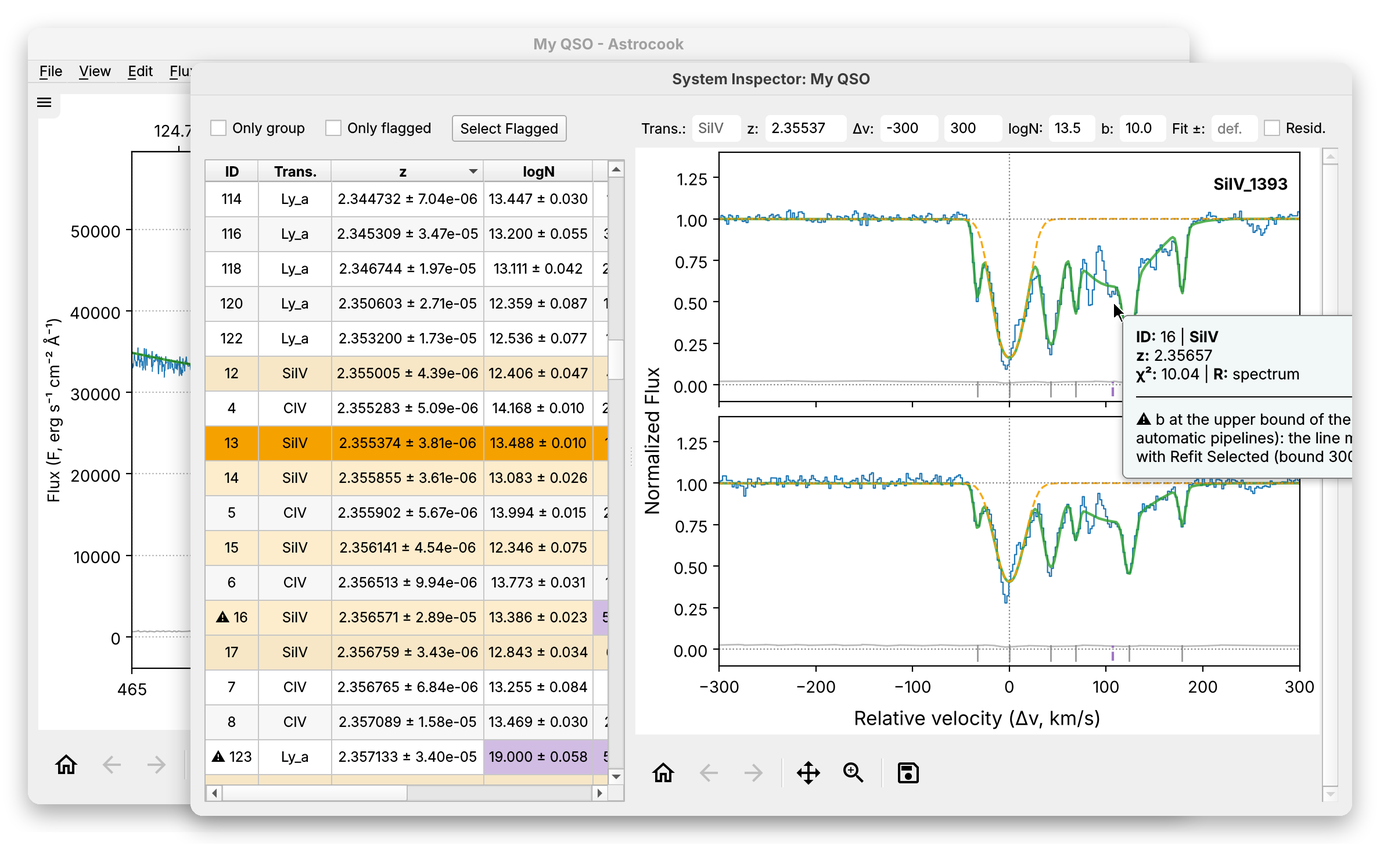
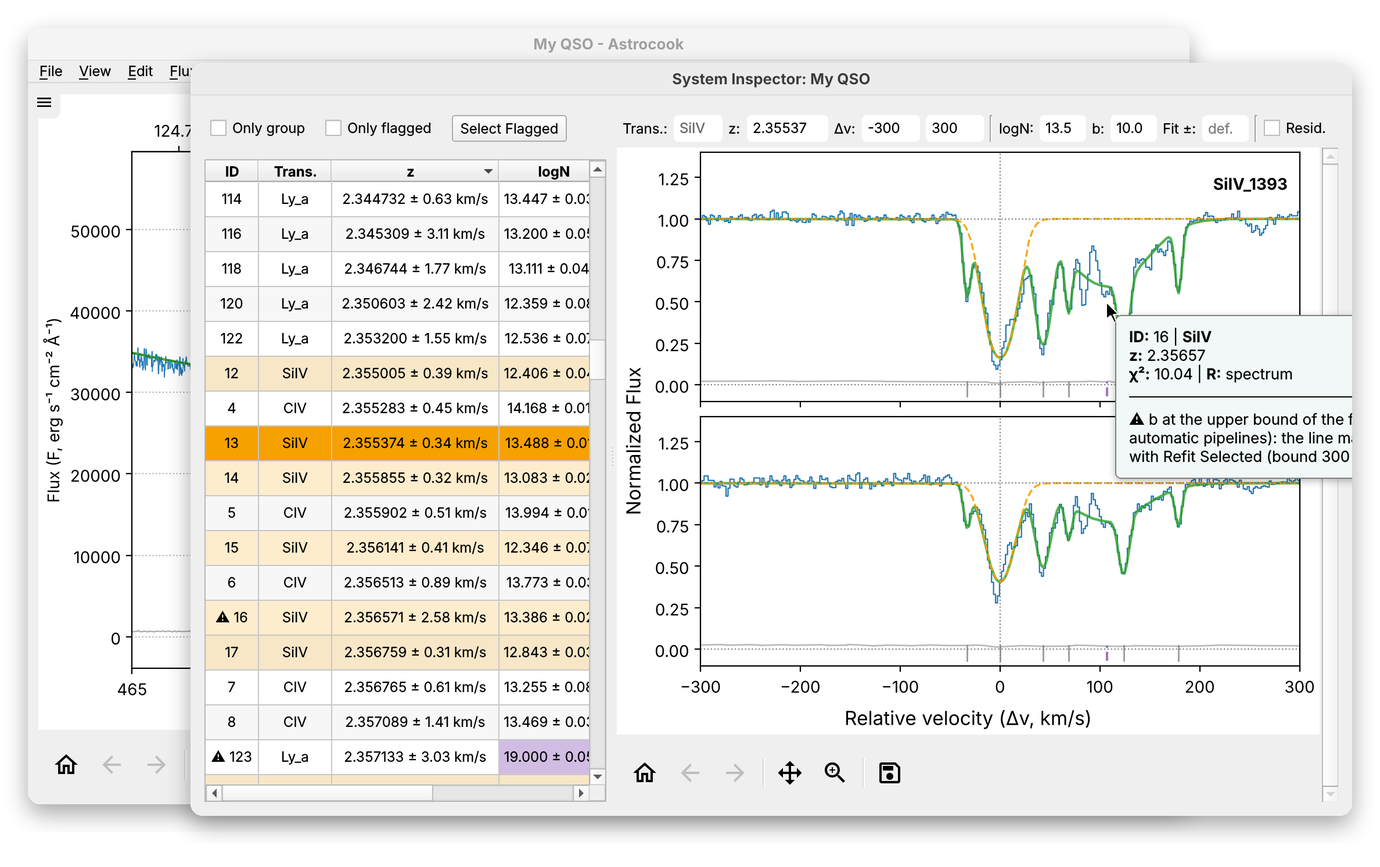
System Inspector: error of z in km/s, btur column, fields in groups
- The uncertainty of z shown as a velocity, c dz / (1 + z), instead of dz
  in scientific notation; dz and km/s in the tooltip of the row. The
  exported tables keep dz.
- btur hidden while no component uses it (all 0, none linked), shown when
  one does; a menu on the header shows or hides any column, saved in the
  settings, with Default Columns.
- The boxes above the velocity plot in three groups, separated by thin
  vertical lines, still on one row so that the plot starts where the
  table does (Guido); a tooltip on each box.
Tutorial, CHANGELOG, ROADMAP; screenshots rebuilt.

Claude-Session: https://claude.ai/code/session_01N95cbM7xvLMDyKr9XgXJpi

diff --git a/astrocook/gui/system_inspector.py b/astrocook/gui/system_inspector.py
@@ -1,13 +1,15 @@
 import importlib.util
+import json
 import logging
 import numpy as np
 import astropy.units as au
-from PySide6.QtCore import QEvent, Qt, QLocale, QItemSelection, QItemSelectionModel, QTimer
+from PySide6.QtCore import (QEvent, Qt, QLocale, QItemSelection, QItemSelectionModel, QSettings,
+                            QTimer)
 from PySide6.QtGui import QAction, QDoubleValidator
 from PySide6.QtWidgets import (
     QApplication, QWidget, QVBoxLayout, QHBoxLayout, QSplitter, QTableView, 
     QHeaderView, QAbstractItemView, QMenu, QInputDialog, QDialog, QDialogButtonBox,
-    QMessageBox, QLabel, QLineEdit, QCheckBox, QPushButton
+    QMessageBox, QLabel, QLineEdit, QCheckBox, QPushButton, QFrame
 )
 from typing import List
 
@@ -21,6 +23,10 @@ from .inspector_table import (COL_MAP, COLUMNS, LinkColorDelegate, SystemSortFil
 from .velocity_plot import VelocityPlotWidget
 from .theme import (FOCUS_BORDER, SELECTION, SELECTION_TEXT, TOOLTIP_BACKGROUND, TOOLTIP_BORDER,
                     TOOLTIP_TEXT)
+
+
+#: The columns of the table shown or hidden by the user, in the settings
+HIDDEN_COLUMNS_KEY = "inspector_hidden_columns"
 
 
 def _corner_installed() -> bool:
@@ -103,6 +109,12 @@ class SystemInspector(QWidget):
             signal.connect(self._schedule_column_fit)
         self.table_view.selectionModel().selectionChanged.connect(self._on_selection_changed)
         self.table_view.customContextMenuRequested.connect(self._on_context_menu)
+        # The columns shown: a menu on the header; btur, almost always a
+        # frozen 0, is hidden unless a component uses it (visual review of
+        # phase 5-bis), or as the user chose (saved in the settings)
+        header = self.table_view.horizontalHeader()
+        header.setContextMenuPolicy(Qt.CustomContextMenu)
+        header.customContextMenuRequested.connect(self._on_header_menu)
         self.table_model.data_changed_request.connect(self._forward)
         
         left_widget = QWidget()
@@ -156,15 +168,23 @@ class SystemInspector(QWidget):
         c_layout.setContentsMargins(5, 5, 5, 5) # Exact match to Left Toolbar
         c_layout.setSpacing(5)
 
-        c_layout.addWidget(QLabel("Trans.:"))
+        # Three groups (visual review of phase 5-bis): what the plot shows,
+        # the starting values and fit window of a new component, the
+        # residuals; on one row, so that the plot starts where the table
+        # does: short labels, explained by the tooltips
+        trans_tip = "The transitions shown in the velocity plot (e.g. CIV, SiIV)"
+        c_layout.addWidget(self._field_label("Trans.:", trans_tip))
         self.trans_in = QLineEdit()
         self.trans_in.setPlaceholderText("CIV, SiIV")
+        self.trans_in.setToolTip(trans_tip)
         self.trans_in.returnPressed.connect(self._apply)
         self.trans_in.textEdited.connect(self._on_manual_edit)
         c_layout.addWidget(self.trans_in, 1) 
         
-        c_layout.addWidget(QLabel("z:"))
+        z_tip = "The redshift at the centre of the velocity plot (Δv = 0)"
+        c_layout.addWidget(self._field_label("z:", z_tip))
         self.z_in = QLineEdit()
+        self.z_in.setToolTip(z_tip)
         self.z_in.setFixedWidth(70)
         validator = QDoubleValidator()
         validator.setLocale(QLocale.C) 
@@ -172,27 +192,37 @@ class SystemInspector(QWidget):
         self.z_in.returnPressed.connect(self._apply_z)
         c_layout.addWidget(self.z_in)
 
-        c_layout.addWidget(QLabel("Δv:"))
+        dv_tip = "The velocity range of the plot (km/s), from and to"
+        c_layout.addWidget(self._field_label("Δv:", dv_tip))
         self.vmin_in = QLineEdit("-300")
+        self.vmin_in.setToolTip(dv_tip)
         self.vmin_in.setFixedWidth(50)
         self.vmin_in.setValidator(validator)
         self.vmin_in.returnPressed.connect(self._apply_limits)
         c_layout.addWidget(self.vmin_in)
         self.vmax_in = QLineEdit("300")
+        self.vmax_in.setToolTip(dv_tip)
         self.vmax_in.setFixedWidth(50)
         self.vmax_in.setValidator(validator)
         self.vmax_in.returnPressed.connect(self._apply_limits)
         c_layout.addWidget(self.vmax_in)
         
-        c_layout.addWidget(QLabel("logN:"))
+        c_layout.addWidget(self._separator())
+        logn_tip = ("The starting logN of a component added from the menu of the\n"
+                    "velocity plot (right click); its profile follows the cursor")
+        c_layout.addWidget(self._field_label("logN:", logn_tip))
         self.logn_in = QLineEdit("13.5")
+        self.logn_in.setToolTip(logn_tip)
         self.logn_in.setFixedWidth(40)
         self.logn_in.setValidator(validator)
         self.logn_in.textChanged.connect(self._update_cursor)
         c_layout.addWidget(self.logn_in)
         
-        c_layout.addWidget(QLabel("b:"))
+        b_tip = ("The starting b (km/s) of a component added from the menu of\n"
+                 "the velocity plot (right click); its profile follows the cursor")
+        c_layout.addWidget(self._field_label("b:", b_tip))
         self.b_in = QLineEdit("10.0")
+        self.b_in.setToolTip(b_tip)
         self.b_in.setFixedWidth(40)
         self.b_in.setValidator(validator)
         self.b_in.textChanged.connect(self._update_cursor)
@@ -220,7 +250,9 @@ class SystemInspector(QWidget):
         self.fit_window_in.setToolTip(fit_window_tip)
         c_layout.addWidget(self.fit_window_in)
         
+        c_layout.addWidget(self._separator())
         self.resid_cb = QCheckBox("Resid.")
+        self.resid_cb.setToolTip("Show the residuals of the model below each panel")
         self.resid_cb.toggled.connect(self._apply) 
         c_layout.addWidget(self.resid_cb)
         
@@ -296,6 +328,7 @@ class SystemInspector(QWidget):
             constraints = session.systs.constraint_model.v2_constraints_by_uuid
             
         self.table_model.update_data(new_comps, constraints)
+        self._update_column_visibility()
         
         # 3. Determine Selection Target
         max_id_new = max([c.id for c in new_comps], default=0) if new_comps else 0
@@ -1013,6 +1046,77 @@ class SystemInspector(QWidget):
         
         # 5. Update Proxy Filter (Show entire group)
         self.proxy_model.set_allowed_uuids(all_group_uuids)
+
+    @staticmethod
+    def _field_label(text: str, tip: str) -> QLabel:
+        label = QLabel(text)
+        label.setToolTip(tip)
+        return label
+
+    @staticmethod
+    def _separator() -> QFrame:
+        """A thin vertical line between the groups of fields."""
+        line = QFrame()
+        line.setFrameShape(QFrame.Shape.VLine)
+        line.setFrameShadow(QFrame.Shadow.Sunken)
+        return line
+
+    # --- The columns shown ---
+
+    def _hidden_columns(self) -> dict:
+        """The columns shown or hidden by the user ({name: hidden}), from
+        the settings; a column not in it follows its default."""
+        raw = QSettings("Astrocook", "AstrocookV2").value(HIDDEN_COLUMNS_KEY, "")
+        try:
+            return {k: bool(v) for k, v in json.loads(raw).items()} if raw else {}
+        except (TypeError, ValueError):
+            return {}
+
+    def _btur_in_use(self) -> bool:
+        """Whether a component has btur other than 0, or linked. Not "free":
+        the constraints of some sessions mark btur free at 0 everywhere,
+        where it does nothing; a fit that moves it makes it non-zero."""
+        model = self.table_model
+        for comp in model._components:
+            if comp.btur:
+                return True
+            constraint = model._constraints_map.get(comp.uuid, {}).get('btur')
+            if constraint is not None and (constraint.target_uuid or constraint.expression):
+                return True
+        return False
+
+    def _update_column_visibility(self):
+        hidden = self._hidden_columns()
+        for i, name in enumerate(COLUMNS):
+            if name in hidden:
+                hide = hidden[name]
+            else:
+                hide = name == 'btur' and not self._btur_in_use()
+            self.table_view.setColumnHidden(i, hide)
+
+    def _on_header_menu(self, pos):
+        """Show or hide a column; the choice is saved in the settings."""
+        menu = QMenu(self)
+        for i, name in enumerate(COLUMNS):
+            if name == 'ID':
+                continue
+            action = menu.addAction(name)
+            action.setCheckable(True)
+            action.setChecked(not self.table_view.isColumnHidden(i))
+            action.toggled.connect(lambda shown, n=name: self._set_column_shown(n, shown))
+        menu.addSeparator()
+        menu.addAction("Default Columns", self._reset_columns)
+        menu.exec(self.table_view.horizontalHeader().mapToGlobal(pos))
+
+    def _set_column_shown(self, name: str, shown: bool):
+        hidden = self._hidden_columns()
+        hidden[name] = not shown
+        QSettings("Astrocook", "AstrocookV2").setValue(HIDDEN_COLUMNS_KEY, json.dumps(hidden))
+        self._update_column_visibility()
+
+    def _reset_columns(self):
+        QSettings("Astrocook", "AstrocookV2").remove(HIDDEN_COLUMNS_KEY)
+        self._update_column_visibility()
 
     def _apply_field_styles(self):
         """The fields above the velocity plot, with the colours of the

diff --git a/tests/test_gui_smoke.py b/tests/test_gui_smoke.py
@@ -288,7 +288,8 @@ def _columns_fit_their_contents(inspector):
     return all(
         header.sectionSize(col) == max(view.sizeHintForColumn(col),
                                        header.sectionSizeHint(col))
-        for col in range(inspector.proxy_model.columnCount()))
+        for col in range(inspector.proxy_model.columnCount())
+        if not view.isColumnHidden(col))  # btur, hidden when not in use
 
 
 def test_inspector_columns_fit_their_contents(qtbot, loaded):
@@ -322,6 +323,72 @@ def test_inspector_boxes_above_the_table(loaded):
     assert group.text() == "Only group" and "fitted together" in group.toolTip()
     assert group.geometry().right() + 10 < flagged.geometry().left()
     assert flagged.geometry().right() + 10 < button.geometry().left()
+
+
+def test_inspector_fields_in_groups(loaded):
+    # One row above the plot, as the boxes above the table, in three groups
+    # (the view, a new component, the residuals) with tooltips (visual
+    # review of phase 5-bis)
+    from PySide6.QtWidgets import QFrame
+    loaded._on_view_system_inspector()
+    inspector = loaded.system_inspector
+    inspector.resize(1200, 700)
+    QApplication.processEvents()
+    fields = (inspector.trans_in, inspector.z_in, inspector.vmin_in, inspector.vmax_in,
+              inspector.logn_in, inspector.b_in, inspector.fit_window_in, inspector.resid_cb)
+    assert all(f.toolTip() for f in fields)
+    assert "right click" in inspector.logn_in.toolTip()
+    tops = {f.mapTo(inspector, f.rect().topLeft()).y() // 10 for f in fields}
+    assert len(tops) == 1  # one row
+    lines = [w for w in inspector.findChildren(QFrame)
+             if w.frameShape() == QFrame.Shape.VLine and w.isVisible()]
+    xs = sorted(w.mapTo(inspector, w.rect().topLeft()).x() for w in lines)
+    x_of = lambda w: w.mapTo(inspector, w.rect().topLeft()).x()  # noqa: E731
+    assert len(xs) == 2
+    assert x_of(inspector.vmax_in) < xs[0] < x_of(inspector.logn_in)
+    assert x_of(inspector.fit_window_in) < xs[1] < x_of(inspector.resid_cb)
+
+
+def test_inspector_btur_column(loaded, monkeypatch):
+    # btur, almost always a frozen 0, hidden unless a component uses it;
+    # the header menu shows or hides a column, remembered (visual review)
+    import dataclasses
+    from PySide6.QtCore import QSettings
+    from astrocook.gui import system_inspector
+    from astrocook.gui.inspector_table import COLUMNS
+    loaded._on_view_system_inspector()
+    inspector = loaded.system_inspector
+    view, col = inspector.table_view, COLUMNS.index("btur")
+    assert view.isColumnHidden(col)
+    # A component with btur: shown
+    model = inspector.table_model
+    comps = list(model._components)
+    comps[0] = dataclasses.replace(comps[0], btur=5.0)
+    model.update_data(comps, model._constraints_map)
+    inspector._update_column_visibility()
+    assert not view.isColumnHidden(col)
+    # The user hides it: hidden, and remembered
+    inspector._set_column_shown("btur", False)
+    assert view.isColumnHidden(col)
+    assert "btur" in QSettings("Astrocook", "AstrocookV2").value(
+        system_inspector.HIDDEN_COLUMNS_KEY)
+    inspector._set_column_shown("logN", False)
+    assert view.isColumnHidden(COLUMNS.index("logN"))
+    # Default Columns: btur shown again (in use), logN back
+    inspector._reset_columns()
+    assert not view.isColumnHidden(col) and not view.isColumnHidden(COLUMNS.index("logN"))
+    # The menu of the header: one entry per column but ID
+    from PySide6.QtWidgets import QMenu
+    shown = []
+
+    class RecordedMenu(QMenu):
+        def exec(self, *args):
+            shown.append([x.text() for x in self.actions() if not x.isSeparator()])
+
+    monkeypatch.setattr(system_inspector, "QMenu", RecordedMenu)
+    inspector._on_header_menu(view.horizontalHeader().rect().center())
+    assert shown[0][:len(COLUMNS) - 1] == COLUMNS[1:]
+    assert shown[0][-1] == "Default Columns"
 
 
 def test_inspector_fit_window(loaded, monkeypatch):

diff --git a/astrocook/gui/inspector_table.py b/astrocook/gui/inspector_table.py
@@ -26,6 +26,23 @@ COL_MAP = {
 COLUMNS = list(COL_MAP.keys())
 EDITABLE_COLS = {"z", "logN", "b", "btur"}
 
+#: The speed of light (km/s), for the error of z in velocity
+C_KMS = 299792.458
+
+
+def dz_kms(z: float, dz: float) -> float:
+    """The error of a redshift as a velocity, c dz / (1 + z)."""
+    return C_KMS * dz / (1.0 + z)
+
+
+def _dz_tip(comp) -> str:
+    """The error of z in the tooltip of a row: as a redshift and in km/s."""
+    dz = getattr(comp, 'dz', None)
+    if dz is None or not np.isfinite(dz) or dz <= 0:
+        return ""
+    return f" \u00b1 {dz:.2e} ({dz_kms(comp.z, dz):.2f} km/s)"
+
+
 # --- Flags of the fit (#517) ---
 #: Parameter of each bound flag, and what it means for the user
 _BOUND_FLAGS = {
@@ -264,7 +281,7 @@ class SystemTableModel(QAbstractTableModel):
              tooltip_html = (
                 f"<div style='font-size: 13px'>"
                 f"<b>ID:</b> {comp.id} | <b>{comp.series}</b><br>"
-                f"<b>z:</b> {comp.z:.6f}<br>"
+                f"<b>z:</b> {comp.z:.6f}{_dz_tip(comp)}<br>"
                 f"<b>\u03c7\u00b2:</b> {c_chi2} | <b>R:</b> {c_resol}"
              )
              if is_constrained_col:
@@ -342,7 +359,13 @@ class SystemTableModel(QAbstractTableModel):
                         err_val = getattr(comp, err_attr, None)
                         
                         if err_val is not None and np.isfinite(err_val) and err_val > 0:
-                            err_str = err_fmt.format(err_val)
+                            if attr == 'z':
+                                # In velocity: dz in scientific notation was
+                                # hard to compare between rows (visual review
+                                # of phase 5-bis); dz is in the tooltip
+                                err_str = f"{dz_kms(comp.z, err_val):.2f} km/s"
+                            else:
+                                err_str = err_fmt.format(err_val)
                             return f"{val_str} ± {err_str}"
                 
                 return val_str

diff --git a/tests/test_inspector_table.py b/tests/test_inspector_table.py
@@ -58,7 +58,9 @@ def test_display_and_edit(filled):
     assert _data(filled, 0, "ID", Qt.DisplayRole) == "⚠ 1"  # flagged
     assert _data(filled, 2, "ID", Qt.DisplayRole) == "3"
     assert _data(filled, 0, "Trans.", Qt.DisplayRole) == "CIV"
-    assert _data(filled, 0, "z", Qt.DisplayRole) == "2.000000 ± 1.50e-05"
+    # The error of z in velocity, c dz / (1 + z) (visual review of phase 5-bis)
+    assert _data(filled, 0, "z", Qt.DisplayRole) == "2.000000 ± 1.50 km/s"
+    assert "± 1.50e-05 (1.50 km/s)" in _data(filled, 0, "z", Qt.ToolTipRole)
     assert _data(filled, 0, "logN", Qt.DisplayRole) == "13.000 ± 0.050"
     assert _data(filled, 0, "b", Qt.DisplayRole) == "10.00 ± 1.25"
     # No error without one, for a linked or a frozen parameter

diff --git a/ROADMAP.md b/ROADMAP.md
@@ -2044,7 +2044,7 @@ review); each of its decisions goes into the log.
 | MCP pilot (sections 4.1, 4.2) | done (October 2026): scope (#595); skeleton with `session_open`, `session_save` (#596); `continuum_estimate_auto`, `absorbers_identify_lines` (#597); `absorbers_doublets_auto` (#598); docs page and stdio test (#599); report (section 4.2, #600): two agent trials and Guido's; found F46-F55 |
 | 4 – Scientific correctness (validation on mocks; #526, #517, #465, #518, #568, #573) | done (October 2026): plan agreed (#601); validation: mocks extended (#602), benchmark (#603), baseline (#604); found F56-F59; #573 done (#605: one default per parameter); #518 done (#606: fit window in the System Inspector); #568: wrong atomic values (#607), AlII, [NeIII], [NeV], TiII (#608), single table with sources and newer values, F39 (#609); F49: one candidate per doublet (#611); F55: candidates within 3000 km/s of z_em (#612); F50: the pipelines keep the mask of the user (#613); #465: robust automatic continuum (spikes, masked running mean, local S/N) (#614); #526 PR 1: resolution as a single column (#615); PR 2: the GUI on the same resolver (#616); PR 3: exact convolution with the LSF of each pixel (#617); F61: damping parameter (1 + z) too large (#619); F62: `max_logN` = 19 in the automatic pipelines (#624); PR 4: legacy sources no longer written, System Inspector profiles as the fitter (#625); #623: refit of sessions with pixel edges without a unit (regression of #617, #626); F14: blend threshold of the grouping from the instrumental FWHM (#618); #517 with F52 partly: flags of the fit (#627), cleanup of the pipelines (#628), GUI cues and F65 (#629); F63 (#631); result against the baseline in "Result of the phase" |
 | 5 – Splitting large files (and GUI performance) | done (October 2026): order of the phase agreed, F12 moved to 6-bis; GUI benchmark (`benchmarks/bench_gui.py`, #634); inspector table (first opening 3.7 → 1.3 s, #635); ticks of the main plot (redraw 0.19 → 0.13 s, #636), found F66; draws of the velocity plot coalesced (first opening 1.43 → 1.19 s, #637); Qt enums of the table read once (first opening 1.22 → 0.54 s; from 3.96 s before the phase, #638); highlights of the main plot blitted (selection of a row 0.32 → 0.22 s, #639); split of `SpectrumV2`: continuum (#640), found F67; lines (#641), found F68; calibration fixed (`np.trapz` removed from NumPy, #642), found F69, F70; flux (#643); combination (#644), found F71, F72; expressions and masks: split of `SpectrumV2` complete (2826 → 774 lines, #645); tests in parallel (#646); split of the GUI: F7 fixed (#647); inspector table (#648); velocity plot (#649); its rebuild and layout faster (selection 0.23 → 0.18 s, #650); parts of the main plot in their modules, found F73 (#651); continuum editor in a mixin, found F74 (#652); mouse handlers and tooltip in a mixin (#653); `plot_spectrum` split into its parts, found F75, F76 (#654); split of `main_window.py`: accessory widgets and dialogs (#655), menus, found F77 (#656); panels, found F78 (#657); controls of the continuum editor, F74 fixed (#658); sessions, found F79 (#659); recipes and scripts, found F80-F83: split of `main_window.py` complete (4831 → 541 lines) (#660); F82, F83 fixed (#661); F66 fixed, found F84 (#662); closing: documentation of the API (the methods of `SpectrumV2` back on its page), result of the phase (System Inspector opened ~7× faster, selection ~3×; `spectrum.py` 2826 → 774 lines, `main_window.py` 4831 → 541; coverage 67% → 81%) |
-| 5-bis – GUI look and ergonomics | in progress (October 2026): order of the phase agreed (all the findings proposed, F73, F76, F77, F80 included); F67, F71 fixed (PR 1, #664); F69 (PR 2, #665); F70 (PR 3, #666); #630 (PR 4, #667); F81, F75 (PR 5, #668); F78 (PR 6, #669); F85, the boxes of the System Inspector (PR 6-bis, #670); F77, F80 (PR 7, #671); F73 (PR 8, #672); F76 (PR 9, #673), found F86; F86 (PR 9-bis, #674); theme module, PR A (no visible change; Select icon, #675), found F87; PR B (dark mode, F87, #676); the toolbar of the plots redesigned (Guido's request, #677); View > Appearance and View > Show Toolbar, F88 (#678); the visual review, found F89, F90; the bugs of the review (F89, F90, the links and placeholders of the dark palette) and F91 (reported by Guido), found F92 (#679); the pass on the texts, with F92 (#680); the main plot (names of the emission lines in spectroscopic notation on a white ground, the ticks of the systems in two rows and softer, no title, the unit of the flux in the usual order; agreed with Guido) |
+| 5-bis – GUI look and ergonomics | in progress (October 2026): order of the phase agreed (all the findings proposed, F73, F76, F77, F80 included); F67, F71 fixed (PR 1, #664); F69 (PR 2, #665); F70 (PR 3, #666); #630 (PR 4, #667); F81, F75 (PR 5, #668); F78 (PR 6, #669); F85, the boxes of the System Inspector (PR 6-bis, #670); F77, F80 (PR 7, #671); F73 (PR 8, #672); F76 (PR 9, #673), found F86; F86 (PR 9-bis, #674); theme module, PR A (no visible change; Select icon, #675), found F87; PR B (dark mode, F87, #676); the toolbar of the plots redesigned (Guido's request, #677); View > Appearance and View > Show Toolbar, F88 (#678); the visual review, found F89, F90; the bugs of the review (F89, F90, the links and placeholders of the dark palette) and F91 (reported by Guido), found F92 (#679); the pass on the texts, with F92 (#680); the main plot (names of the emission lines in spectroscopic notation on a white ground, the ticks of the systems in two rows and softer, no title, the unit of the flux in the usual order; agreed with Guido, #681); the System Inspector (the error of z in km/s, btur hidden while not in use with a menu of the columns, the boxes above the plot in three groups on one row, to keep the plot aligned with the table: Guido) |
 | 6 – Error handling | not started |
 | 6-bis – Recipe API | not started |
 | 7 – Robust components | not started |

diff --git a/docs/tutorials/absorption_systems.md b/docs/tutorials/absorption_systems.md
@@ -93,10 +93,11 @@ The fit does not write the resolution it used into the components: changing the 
 
 ### Right Panel: Velocity Plot
 A zoomed-in view of the selected system in velocity space.
+The boxes above the plot are in three groups, separated by thin lines: what the plot shows (**Trans.**, **z**, **Δv**), the starting values and fit window of a new component (**logN**, **b**, **Fit ±**), and the residuals (**Resid.**). Each box has a tooltip.
 * **Navigation:** The plot centers on the selected component. You can manually edit the **Redshift (z)** and **Velocity Range ($\pm v$)** using the text boxes above the plot.
 * **Scroll:** If a system has many transitions (e.g., Lyman series), use the scrollbar on the right to page through them.
 * **Displayed Lines:** The text box at the top shows which transitions are plotted (e.g., `CIV, SiIV`). You can type new ions here (comma-separated) to inspect other species at the same redshift.
-* **Test Component:** The `logN` and `b` boxes above the plot control the shape of the "ghost" profile attached to your mouse cursor, useful for visually estimating parameters before adding a component.
+* **Test Component:** The `logN` and `b` boxes above the plot control the shape of the "ghost" profile attached to your mouse cursor, useful for visually estimating parameters before adding a component; they are also the starting values of a component added from the menu of the plot (right click).
 * **Residuals:** Check the **Resid.** box to show a residual plot below each transition panel.
 
 ```{image} ../_static/absorbers_system_inspector.png
@@ -167,10 +168,12 @@ Astrocook supports physical linking of parameters, which is essential for fittin
 - **Link (Thermal):** Assumes the broadening is **thermal**. The `b` value is scaled according to the atomic mass ratio of the two ions ($b \propto m^{-1/2}$).
 
 :::{note}
-Astrocook also tracks a turbulent broadening parameter `btur` separately. It is available in the table but **frozen (italic)** by default. You can unfreeze it via the right-click menu if you need to model mixed thermal/turbulent broadening explicitly.
+Astrocook also tracks a turbulent broadening parameter `btur` separately. It is **frozen (italic)** at 0 by default, and its column is hidden while no component uses it (all at 0 and none linked); it appears by itself when a component does. Right-click the header of the table to show or hide any column (**btur** included); **Default Columns** goes back to this behaviour. You can unfreeze `btur` via the right-click menu of the table if you need to model mixed thermal/turbulent broadening explicitly.
 :::
 
 ### Uncertainties
+In the table, the uncertainty of `z` is shown as a velocity, $c\,\delta z/(1+z)$ in km/s, which compares directly with `b`; the tooltip of the row gives it also as $\delta z$. The exported tables keep $\delta z$.
+
 The uncertainties of the fitted parameters are the square roots of the diagonal of the covariance matrix, scaled by $\sqrt{\chi^2_\nu}$ of the fit (as in Astrocook v1): they stay correct when the error spectrum is off by a constant factor. The reduced $\chi^2_\nu$ is stored with each component and computed only on the pixels that constrain the fitted parameters; after the automatic pipelines it refers to the final model. A large $\chi^2_\nu$ (and large uncertainties) means that the model does not describe the data well, e.g. an unresolved blend: such components are worth inspecting and refitting by hand. If the uncertainties cannot be computed (an ill-conditioned fit), they are shown as NaN and the log names the components.
 
 A linked parameter is computed from its target, so its uncertainty is propagated from the target through the expression of the link: a `z` linked by value has the same uncertainty as the `z` of its target, a `b` linked thermally the uncertainty of the target's `b` scaled by the same mass ratio. The two uncertainties are therefore fully correlated, which matters when a list of components is used for statistics (count them once). A frozen parameter has uncertainty 0, as does a parameter linked to a frozen one.

diff --git a/CHANGELOG.md b/CHANGELOG.md
@@ -6,6 +6,7 @@
 - GUI: a **Select** tool in the toolbar of the main plot (F73: the selection of a region was there, but no button reached it). Drag along the wavelength axis to select a region, then choose **Split region**, **Mask region...**, **Rebin region...** or **Zoom to region**; the recipe dialogs open with the region filled in. See *Navigating the Plot* in the *Getting Started* tutorial.
 
 ### Changed
+- System Inspector: the uncertainty of `z` is shown in km/s (c δz / (1 + z), e.g. `2.355374 ± 0.34 km/s`) instead of δz in scientific notation, which was hard to compare between rows; the tooltip of the row gives both, the exported tables keep δz. The **btur** column, almost always a frozen 0, is hidden while no component uses it, and appears when one does; a right click on the header of the table shows or hides any column (remembered), and **Default Columns** restores this behaviour. The boxes above the velocity plot are in three groups separated by thin lines (the view; the starting values and fit window of a new component; the residuals), each with a tooltip.
 - GUI, main plot: the emission lines are named in spectroscopic notation (Lyα, N V, Si IV, C IV, C III], [O III]...; the others as C II 1334) instead of the internal keys (`Ly_a`, `NV_1238`), on a white ground so that they read over the data. The ticks of the components are in two rows, HI below and metals above, shorter and in a softer, translucent red: in the forest they made a solid red block that hid the metals. The plot has no title any more (the name of the session is in the window title and in the session list), which leaves more room to the data. The unit of the flux is written in the usual order, on the axis and in the coordinates under the mouse (erg s⁻¹ cm⁻² Å⁻¹; it was erg Å⁻¹ s⁻¹ cm⁻², with the Å drawn out of place). A full redraw of a session with 764 components takes about 0.26 s instead of 0.31–0.35 s on one machine.
 - GUI: the texts of the interface follow one rule: Title Case in menus, buttons and window titles, sentence case in the labels of options and fields, whole words instead of abbreviations where there is room. In particular: *View > Show Session Panel* and *View > Show Plot Controls* (they were *Toggle ...*) are checked when the panel is open; **Auxiliary column**, **λ unit**, **Error column**, **Show iso-magnitude grid**, **Show S/N**, **Show cursor**, **Transitions** in the plot controls; *Set Resolving Power...* (was *Set R...*), *Set Value of ...* and **Select Flagged** in the System Inspector; *Set Emission Redshift to z=...* in the menu of the plot; the windows *Session Log* (was *Log Scripter*), *Session Info* (was *Session Inspector*) and *Script Console*. *Session Info* gives the median step of a logarithmic grid in km/s first, and the reduced χ² without abbreviation. The session log and the script console use the fixed-width font of the system.
 - GUI: the redshift cursor writes its redshift on the plot, at the top of its first line: the box in the plot controls fades while the mouse is on the plot, and was hard to read (F92).
